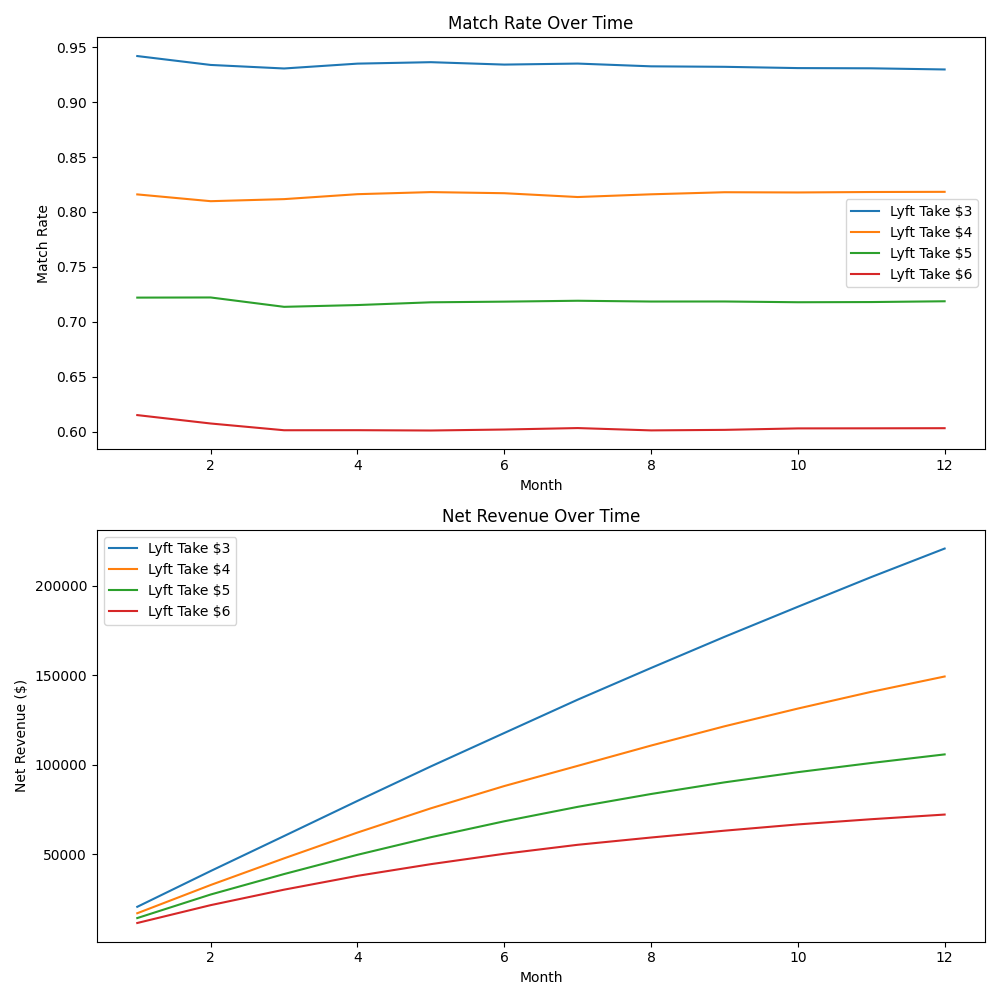
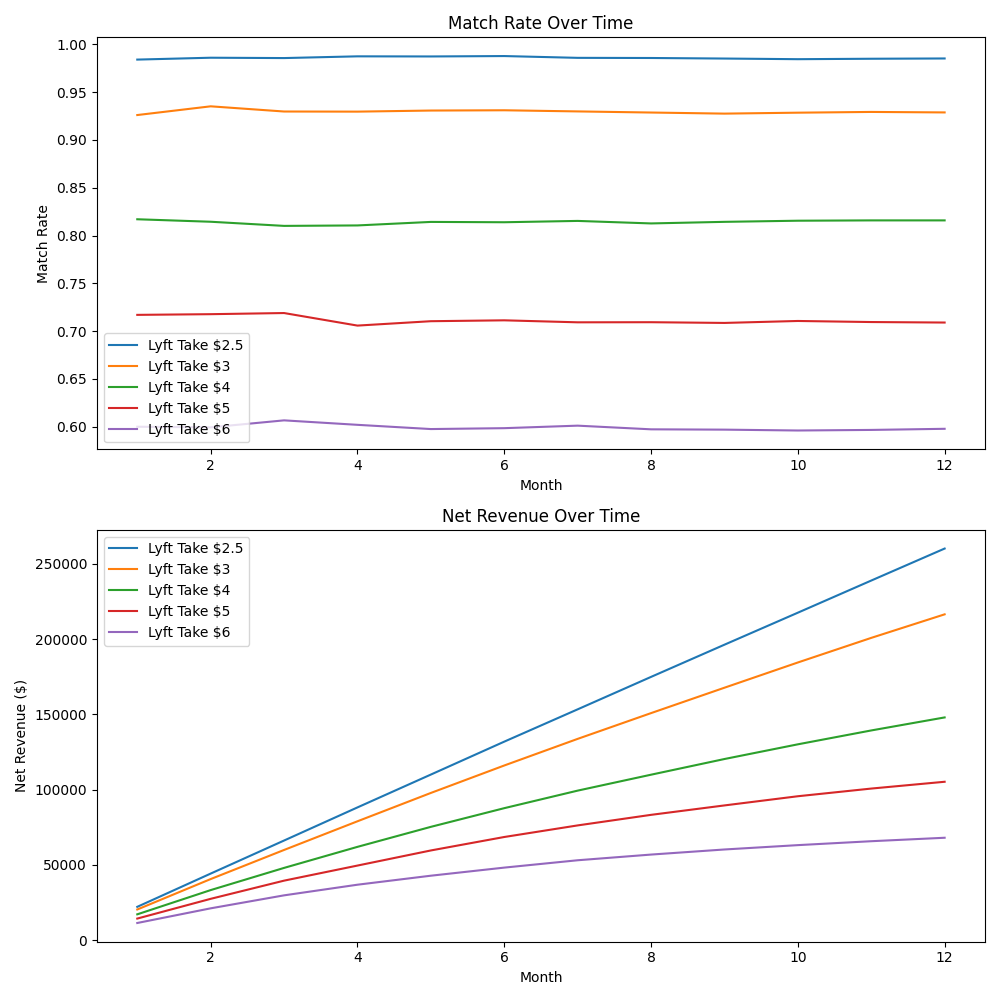
Added lyft take options

diff --git a/main.py b/main.py
@@ -11,7 +11,7 @@ def main():
     months = 12  # Duration of the simulation in months
     initial_riders = 1000  # Number of initial riders in the system
     initial_drivers = 100  # Number of initial drivers in the system
-    lyft_take_options = [3, 4, 5, 6]  # Different values of Lyft's take to test
+    lyft_take_options = [2.50, 3, 4, 5, 6]  # Different values of Lyft's take to test
 
     # Create and run the simulation
     simulation = Simulation(months=months, initial_riders=initial_riders, initial_drivers=initial_drivers,
